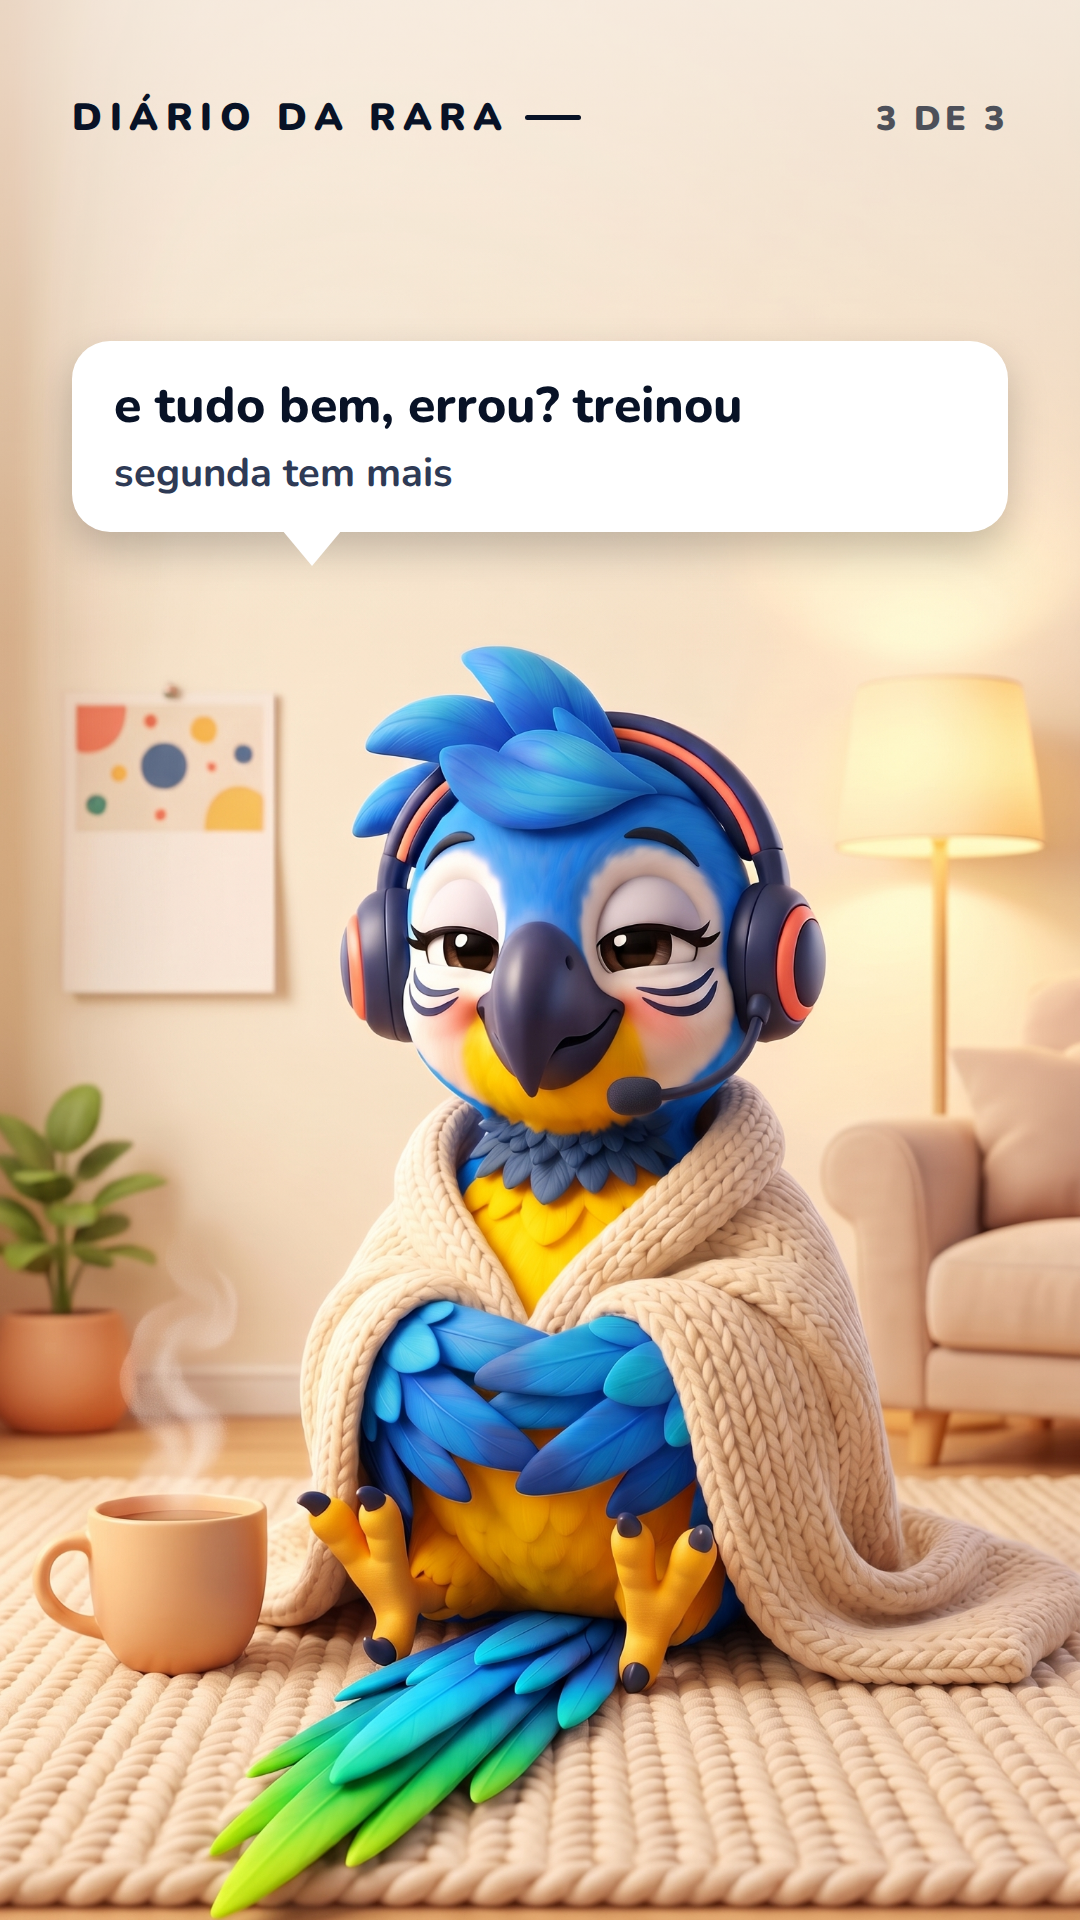
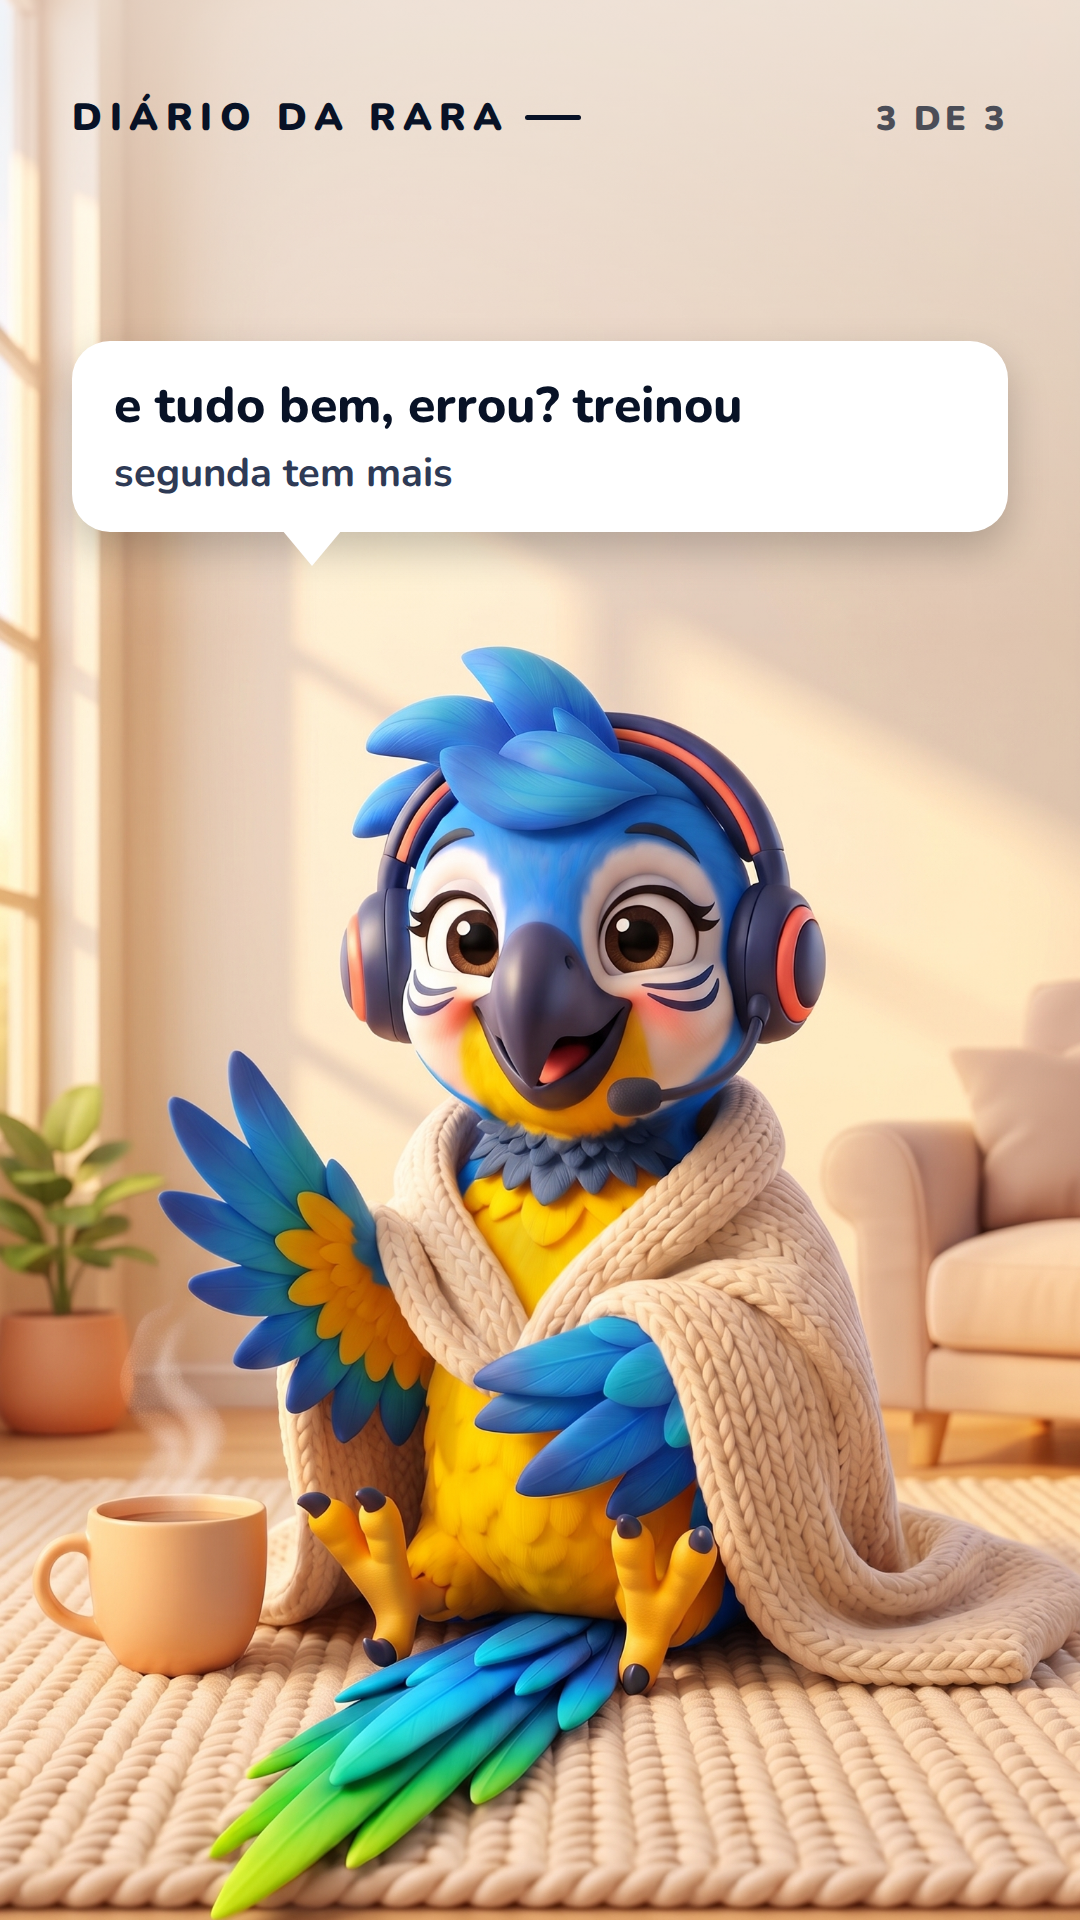
feat(arara): 15 telas do Diário com uma imagem por tela (para aprovação)

diff --git a/semana_23_29_diario/compor_telas.py b/semana_23_29_diario/compor_telas.py
@@ -6,23 +6,23 @@ HERE = pathlib.Path(__file__).resolve().parent
 SC = HERE.parent / 'semana1' / '_scripts'
 # topo do personagem em px (1920): onde o balão NÃO pode chegar
 EPS = {
- 'seg': dict(img='seg_escritorio_v1.jpg', sel='DIÁRIO DA RARA', topo=613, titulo='Segunda e eu cheguei primeiro', kw='primeiro',
+ 'seg': dict(img=['seg_escritorio_v1.jpg', 'seg_2.jpg', 'seg_3.jpg'], sel='DIÁRIO DA RARA', topo=[613, 616, 470], titulo='Segunda e eu cheguei primeiro', kw='primeiro',
    telas=[ ['são 7h e o escritório inteiro é meu'],
            ['ensaiei o japonês do trabalho em voz alta', '<small>お疲れ様です (otsukaresama desu) pra cadeira, e ela nem respondeu</small>'],
-           ['só tem um detalhe', '<small>amanhã eu conto por que ninguém chegou</small>'] ]),
- 'qua': dict(img='qua_call_v2.jpg', sel='DIÁRIO DA RARA', topo=589, titulo='A call que só eu ouvi', kw='só eu',
+           ['só tem um detalhe', '<small>e até agora ninguém chegou</small>'] ]),
+ 'qua': dict(img=['qua_call_v2.jpg', 'qua_2.jpg', 'qua_3.jpg'], sel='DIÁRIO DA RARA', topo=[589, 520, 589], titulo='A call que só eu ouvi', kw='só eu',
    telas=[ ['10h, call importante, eu estava inspirada'],
            ['falei por dez minutos', '<small>o microfone estava no mudo</small>'],
            ['errou? treinou', '<small>agora eu confiro antes de falar</small>'] ]),
- 'sex': dict(img='sex_fila_v1.jpg', sel='DIÁRIO DA RARA', topo=819, titulo='A fila da Black Friday', kw='fila',
+ 'sex': dict(img=['sex_fila_v1.jpg', 'sex_2.jpg', 'sex_3.jpg'], sel='DIÁRIO DA RARA', topo=[819, 819, 819], titulo='A fila da Black Friday', kw='fila',
    telas=[ ['a fila dá duas voltas no poleiro'],
            ['aprendi duas palavras na fila', '<small>sale, liquidação</small><small>discount, desconto</small>'],
            ['no fim saí com um suporte de microfone', '<small>amanhã o primo liga</small>'] ]),
- 'sab': dict(img='sab_raro_v3.jpg', sel='HISTÓRIA DO RARO', topo=669, titulo='De onde vem sábado', kw='sábado',
+ 'sab': dict(img=['sab_raro_v3.jpg', 'sab_2.jpg', 'sab_3.jpg'], sel='HISTÓRIA DO RARO', topo=[669, 669, 780], titulo='De onde vem sábado', kw='sábado',
    telas=[ ['bah, prima, hoje é sábado e tu sabe de onde vem essa palavra'],
            ['vem do hebraico, onde quer dizer descanso', '<small>passou pelo grego e pelo latim até chegar no nosso português</small>'],
            ['por isso sábado combina com rede', '<small>devagar se vai ao longe, tchê</small>'] ]),
- 'dom': dict(img='dom_resumo_v2.jpg', sel='DIÁRIO DA RARA', topo=648, titulo='O resumo da semana', kw='resumo',
+ 'dom': dict(img=['dom_resumo_v2.jpg', 'dom_2.jpg', 'dom_3.jpg'], sel='DIÁRIO DA RARA', topo=[648, 429, 648], titulo='O resumo da semana', kw='resumo',
    telas=[ ['domingo é dia de contar os micos'],
            ['errei na call, errei na fila e errei a hora de chegar'],
            ['e tudo bem, errou? treinou', '<small>segunda tem mais</small>'] ]),
@@ -48,11 +48,11 @@ def tela(ep, d, i, linhas):
     bal = ''.join(f'<div>{l}</div>' if not l.startswith('<small') else l for l in linhas)
     titulo = f'<div class="tit">{t}</div>' if i == 0 else ''
     return f"""<!doctype html><html lang="pt-BR"><head><meta charset="utf-8"><style>{CSS}</style></head><body><div id="post">
-<div class="bg" style="background-image:url('../../semana_23_29_diario/geradas/{d['img']}')"></div><div class="veil"></div>
+<div class="bg" style="background-image:url('../../semana_23_29_diario/geradas/{d['img'][i]}')"></div><div class="veil"></div>
 <div class="sel">{d['sel']}</div><div class="pg">{i+1} DE 3</div>{titulo}
-<div class="bal" id="bal">{bal}</div></div>
+<div class="bal" id="bal" style="{"font-size:46px;padding:22px 42px" if (ep=="dom" and i==1) else ""}">{bal}</div></div>
 <script>
-const b=document.getElementById('bal');const topo={d['topo']};const bottomMax=topo-80;
+const b=document.getElementById('bal');const topo={d['topo'][i]};const bottomMax=topo-80;
 // ancora o balão logo acima do topo do personagem (rabinho 36 px) e deixa crescer para cima
 b.style.top=(bottomMax-36-b.offsetHeight)+'px';
 </script></body></html>"""

diff --git a/semana_23_29_diario/ESTADO.md b/semana_23_29_diario/ESTADO.md
@@ -44,3 +44,16 @@ Cada tela precisa de UMA IMAGEM PRÓPRIA que ilustre a fala. Já existem as 5 ce
 ## Decisão do Rodrigo (12/11, 23h52 UTC): "pode gerar as imagens e sobe o teto por essa semana"
 Opção 1: gerar as 10 cenas extras, uma por vez, como EDIÇÃO da cena do episódio (mesmo personagem e cenário, só pose e enquadramento). Teto desta semana (23 a 29/11 de conteúdo, produzido em 12/11) subiu de US$ 1 para US$ 2 (valor que propus e ele aceitou sem corrigir); só vale para esta semana. Frase de segunda tela 3: trocar por "e até agora ninguém chegou" (recomendação; ele não objetou, confirmar no envio da folha).
 Fila: seg2, seg3, qua2, qua3, sex2, sex3, sab2, sab3, dom2, dom3 (tabela acima). Depois de cada geração: copiar para `geradas/<ep>_<n>.jpg`, conferir (cílios, olhos castanhos, pés no chão, asa sem objeto, topo livre, sem texto), anotar aqui. Ao fim: atualizar `compor_telas.py` para usar uma imagem por tela e refazer a folha.
+- seg_2 gerada (reverência, perfil de três quartos; olhos castanhos, pés no chão, badge pendurado, topo livre até ~32%): aprovada por mim, aguarda Rodrigo
+- seg_3 gerada (Rara intrigada, relógio só com pontos, sem numerais, topo livre exceto o relógio a 21 a 31%): aceita por mim; na composição o balão desta tela precisa ficar ACIMA do relógio (bottom <= 380 px) para não cobrir a piada. Pés no chão, olhos castanhos. As duas asas sobem junto às bochechas, sem cobrir o rosto
+- qua_2 gerada (Rara dramática falando, ícone de mudo vermelho grande, bichinhos confusos): aceita; ressalvas: sobrancelhas um pouco bravas; ponta da asa levantada a ~27% da altura, usar topo=520 px na composição
+- qua_3 gerada (Rara olhando para a câmera, asa estendida perto do notebook, ícone verde de microfone ligado): aceita; ressalva: a ponta da asa fica perto do botão, não o toca exatamente; olhos castanhos, pés no assento, topo livre até ~31%
+- sex_2 gerada (Rara com duas penas levantadas, sinal de dois, boca aberta, sacolas pousadas, pés no chão): aceita; faixa da loja a ~35% e cabeça a ~43%: usar topo=819 px
+- sex_3 gerada (Rara sorrindo satisfeita, suporte de microfone com tripé em pé sozinho ao lado, uma sacola, compradores borrados ao fundo): aceita; o suporte veio com um microfone, ok; a faixa da loja a ~35%, cabeça a ~43%: topo=819
+- sab_2 gerada (Raro apontando o dicionário com a ponta da asa, sobrancelha levantada, bico aberto; chapéu fechado no topo): aceita; ressalva: olhos de íris azulada como na v1, expressão mais de surpresa que de humor seco; topo livre até ~35% (chapéu a 35%), usar topo=669
+- sab_3 gerada na 2a tentativa (1a falhou por provedores): Raro deitado na rede, olhos fechados, chapéu fechado no topo, caneca no chão; ressalva: pés dentro da rede (não no chão, ok por estar deitado), rede enche o terço de baixo, topo livre até ~40%; chapéu a 41%: topo=780
+- dom_2 gerada (3 quadros: fone no mudo, sacolas, relógio sem números; Rara de manta, olhos castanhos, pés no tapete): aceita; ressalva: os quadros ficam a 22 a 33% da altura e o calendário antigo da parede continua visível a 36%; topo=420 px, só cabe balão curto
+- dom_3 gerada (Rara sorrindo, sol pela janela, asa levantada em aceno; olhos castanhos, pés no tapete, parede lisa): aceita; topo=648. As 10 cenas extras estão prontas.
+
+## Telas v2 compostas (13/11, ~00h30 UTC)
+15 telas, UMA IMAGEM PRÓPRIA por tela (`geradas/<ep>_2.jpg`, `_3.jpg` e a cena original na tela 1), balão sempre acima do personagem e, em seg 3 e dom 2, acima do relógio e dos quadros. Frase de seg 3 trocada por "e até agora ninguém chegou". Dom 2 com balão em 46 px (cabe sem tocar o selo). Custo: 15 imagens no total pelo gerador do Google, cerca de US$ 1,0 pela estimativa (US$ 0,068 por imagem); teto da semana US$ 2. Aguardam OK; nada agendado.
